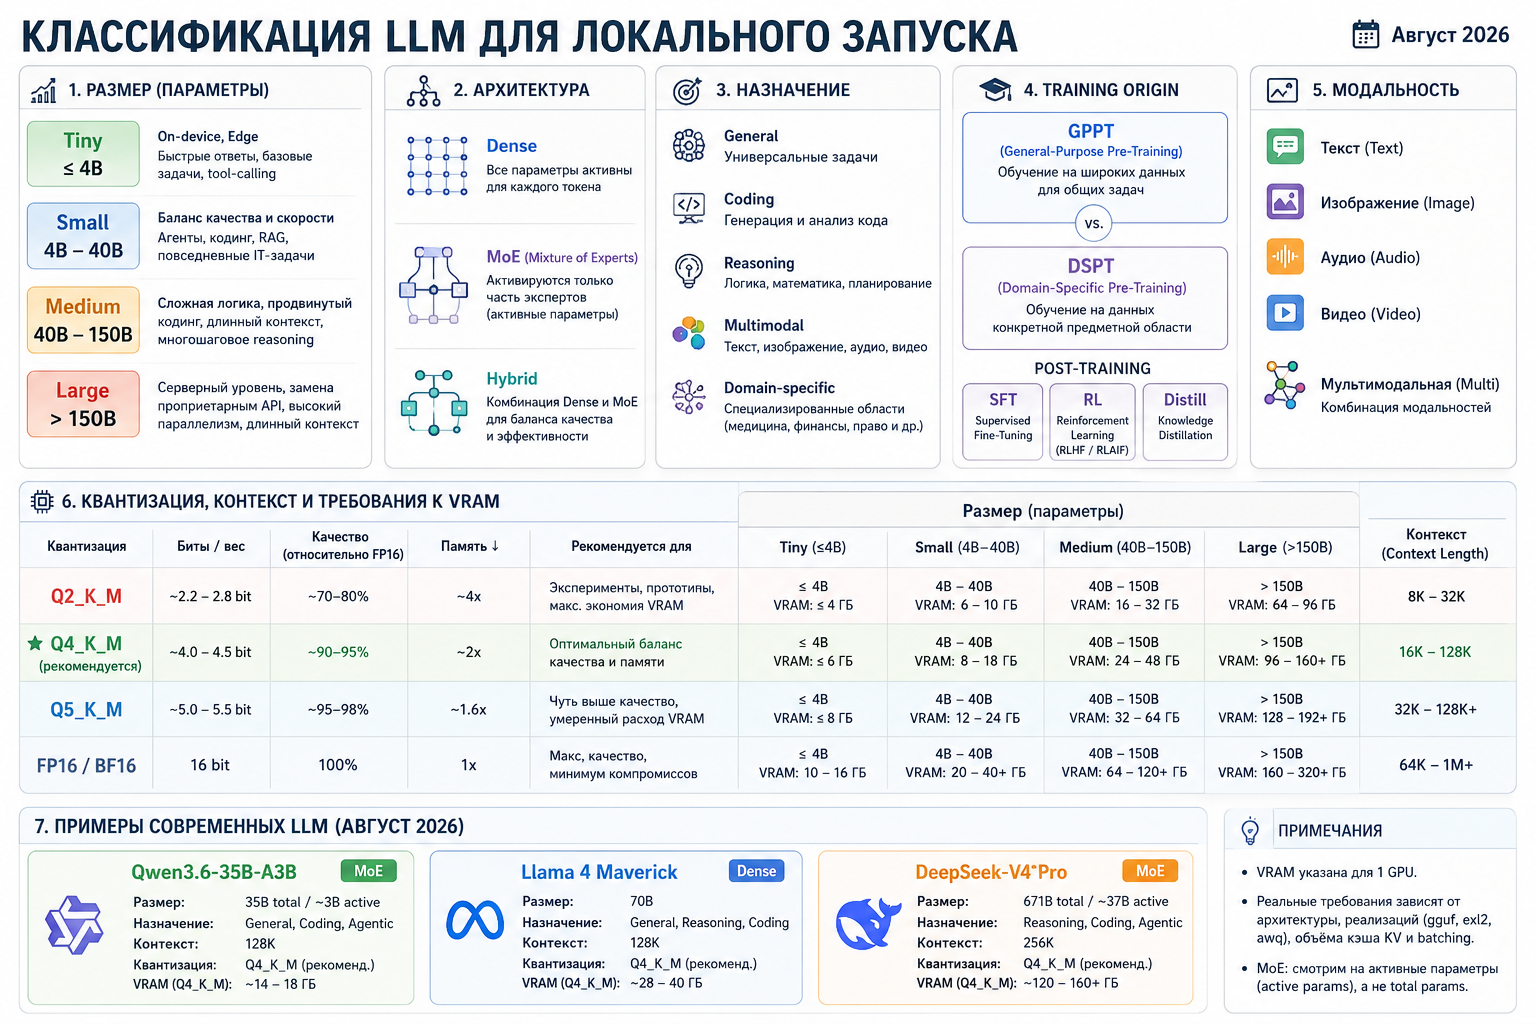
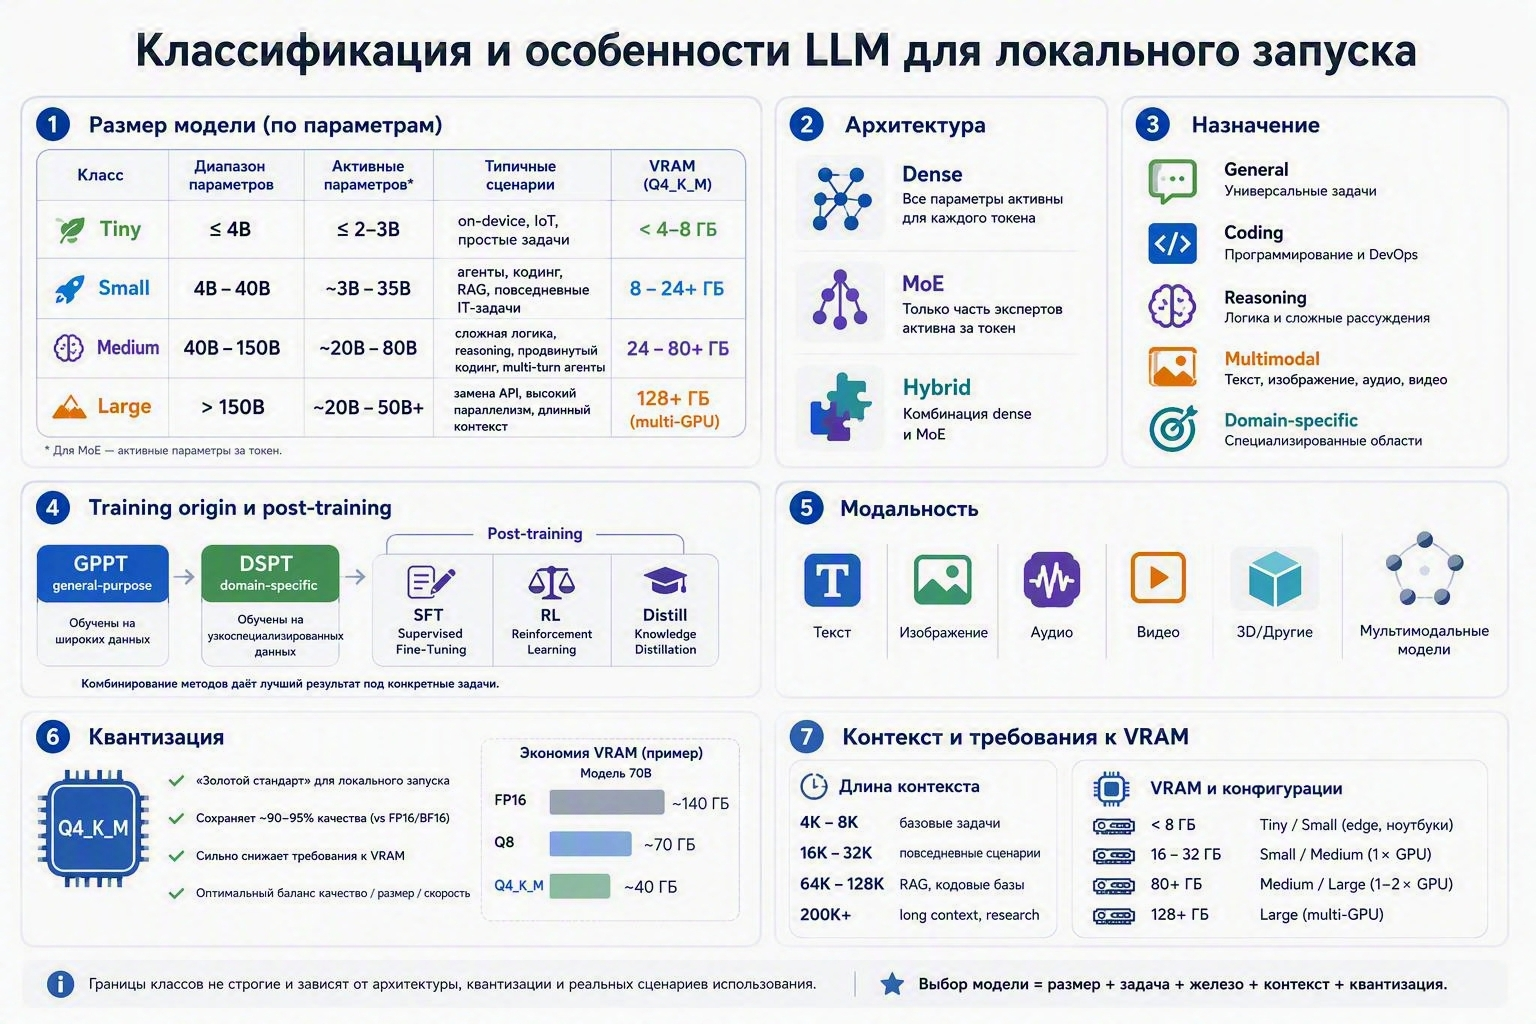
feat(slides): замена слайдов и обновление стилей

Changed region(s): [[0.0, 0.0, 0.9688, 1.0], [0.9062, 0.6875, 0.9688, 0.75]]

diff --git a/themes/t1-lampa/layouts/end.vue b/themes/t1-lampa/layouts/end.vue
@@ -14,7 +14,7 @@ const style = computed(() => handleBackground(props.background))
 
 <template>
   <div class="slidev-layout end t1-blue-bg" :style="style">
-    <div class="w-full h-full flex flex-col justify-center">
+    <div class="w-full h-full flex flex-col">
       <div class="max-w-[62%]">
         <h1 class="end-title">
           <slot name="title" />

diff --git a/themes/t1-lampa/styles/layout.css b/themes/t1-lampa/styles/layout.css
@@ -224,7 +224,7 @@
   position: absolute;
   left: 46px;
   bottom: 40px;
-  width: 76%;
+  width: 0%;
   height: 1px;
   background: var(--t1-ink);
   opacity: 0.16;

diff --git a/documents/slides.md b/documents/slides.md
@@ -48,7 +48,6 @@ backgroundSize: contain
 ---
 layout: center
 ---
-<!-- Кто пытался оплатить зарубежный AI-сервис с юрлица в РФ за последний год? (заголовок убран) -->
 
 <v-clicks>
 
@@ -66,11 +65,6 @@ layout: center
 
 <img src="./assets/the-illusion.jpg" class="h-96 rounded shadow-lg mx-auto mt-8" />
 
----
-layout: image
-image: ./assets/self-hosted-kimi.png
-backgroundSize: contain
----
 
 ---
 layout: image
@@ -82,17 +76,19 @@ backgroundSize: contain
 layout: default
 ---
 
-# Зачем локально? Три драйвера в РФ
+# Зачем локально?
 
 1. **Контроль**
-   - Версия модели, квантизация, промпты — без сюрпризов от провайдера
-   - "Купил и забыл"
+   - Версия модели и квантизация
+   - Без сюрпризов от провайдера
 2. **Безопасность и закон**
    - ФЗ-152, КИИ, коммерческая тайна. Утечка = риск
-3. **Автономность**
-   - Изолированно
+3. **Автономность и доступность**
+   - Изоляция
    - Без лимитов
    - Без риска блокировки
+4. **Кастомизация**
+   - Дообучение и модель под задачу
 
 ---
 layout: section
@@ -158,10 +154,22 @@ layout: default
 <div class="mt-6 text-sm">
   <p class="font-semibold text-gray-800">На что обращать внимание:</p>
   <ul class="mt-1 space-y-1 text-gray-600">
-    <li>• <strong>Coding & Agentic benchmarks:</strong> оценивайте тесты на реальном коде, а не синтетические метрики.</li>
-    <li>• <strong>Соотношение качество / размер:</strong> для локального запуска критичен баланс VRAM и скорости.</li>
+    <li><strong>Coding & Agentic benchmarks:</strong> оценивайте тесты на реальном коде, а не синтетические метрики.</li>
+    <li><strong>Соотношение качество / размер:</strong> для локального запуска критичен баланс VRAM и скорости.</li>
   </ul>
 </div>
+
+---
+layout: image
+image: ./assets/kimi-k3-score.png
+backgroundSize: contain
+---
+
+---
+layout: image
+image: ./assets/self-hosted-kimi.png
+backgroundSize: contain
+---
 
 ---
 layout: image
@@ -236,11 +244,11 @@ layout: default
 # Краткие рекомендации
 
 - **Один разработчик / ноутбук:**
-  - Mac M4 Pro 24+ ГБ + Qwen3.6-35B-A3B + MLX/Ollama.
+  - Mac M4 Pro 24+ ГБ + Qwen3.6-35B-A3B + MLX/Ollama
 - **Команда / небольшой сервер:**
-  - 1–2× RTX 5090 32 ГБ + Qwen3.8-27B + vLLM/SGLang.
+  - 1–2× RTX 5090 32 ГБ + Qwen3.8-27B + vLLM/SGLang
 - **Корпоративный контур:**
-  - Multi-GPU A100/H100 80+ ГБ + vLLM/SGLang.
+  - Multi-GPU A100/H100 80+ ГБ + ... + vLLM/SGLang
 
 ---
 layout: section
@@ -259,10 +267,10 @@ layout: default
 - Главное — считать экономику и выбирать стек под реальную нагрузку.
 
 ---
-layout: center
+layout: end
 ---
 
-# Контакты автора
+# Вопросы?
 
 TODO
 
